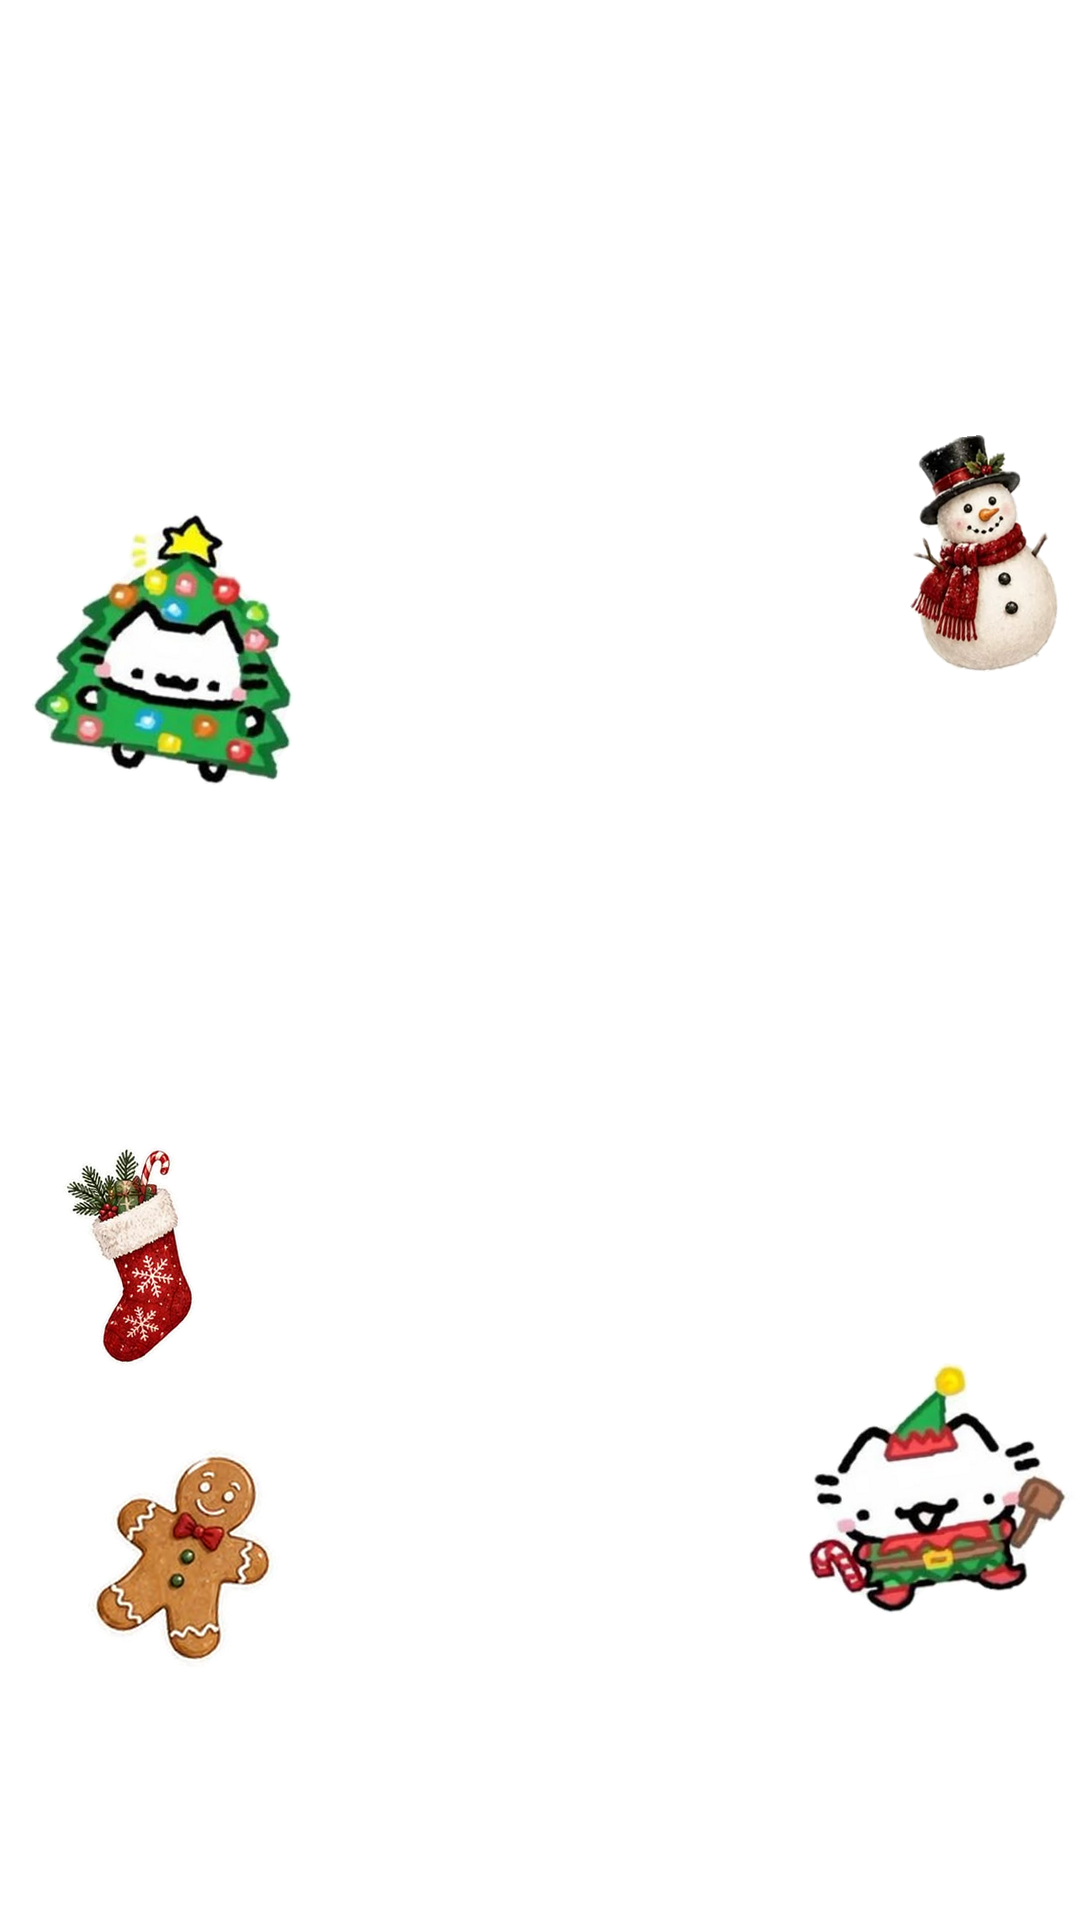
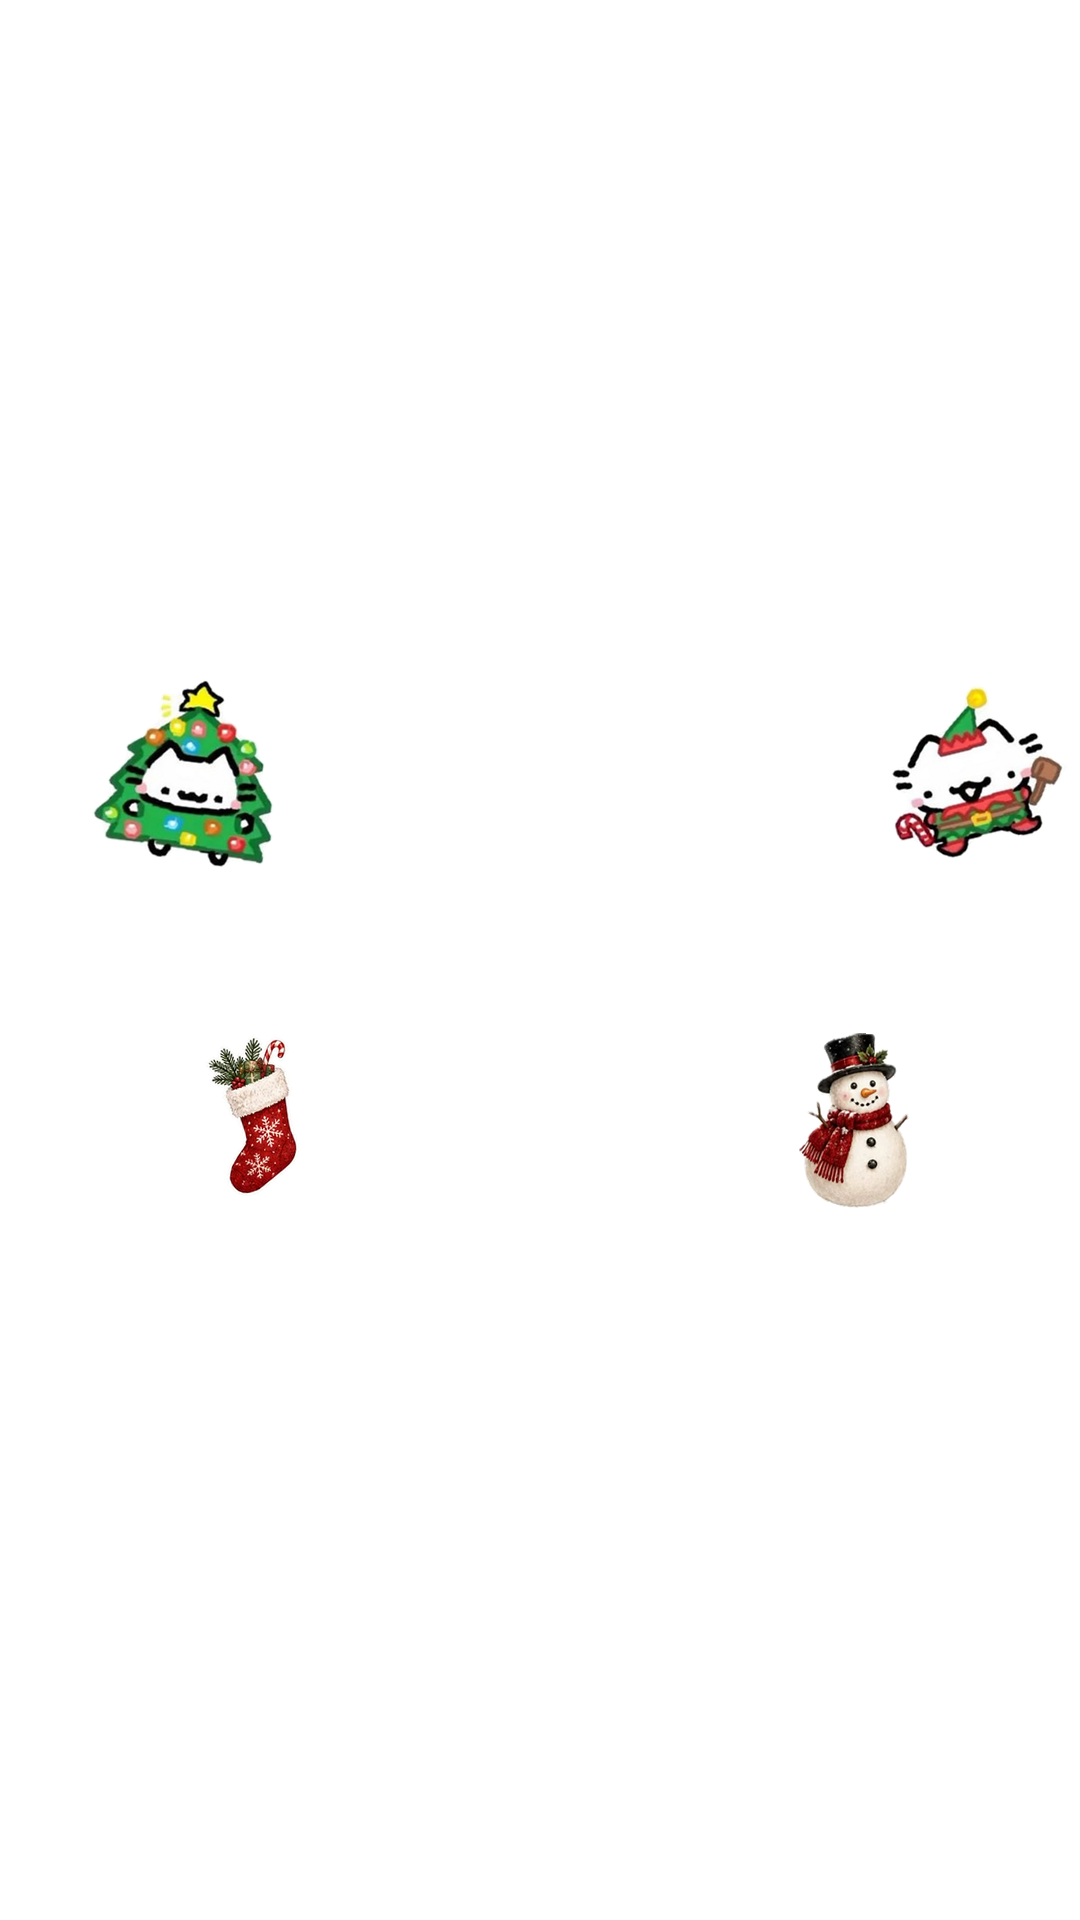
Introdução: 4 stickers menores perto do texto, movimento só de rotação
Claude-Session: https://claude.ai/code/session_01EDeurVhqsz6meJn35JURnX

diff --git a/scripts/stickers_intro.py b/scripts/stickers_intro.py
@@ -1,8 +1,8 @@
 """Efeito de introdução: stickers parados que mexem de leve a cada meio segundo (stop-motion).
 
 Pedido da Fran (03/11/2026): os stickers NÃO trocam. Os mesmos ficam na tela o tempo todo
-da introdução e, a cada passo (0,5 s), giram um pouco, deslocam alguns pixels e mudam
-levemente de tamanho, como um adesivo animado quadro a quadro.
+da introdução e, a cada passo (0,5 s), só mudam um pouco o ângulo (rotação), como um adesivo
+animado quadro a quadro. Posição e tamanho ficam fixos.
 
 Uso: python3 scripts/stickers_intro.py projetos/<nome> [duracao_s] [passo_s]
 Lê <projeto>/layout_intro.json:
@@ -20,7 +20,7 @@ import sys
 
 from PIL import Image
 
-MEXE = {"desloca_px": 7, "giro_graus": 4, "escala": 0.03}  # "leve movimento"
+MEXE = {"desloca_px": 0, "giro_graus": 6, "escala": 0.0}  # Fran (03/11): só gira; não anda em x/y nem muda de tamanho
 
 
 def main(projeto, duracao=3.0, passo=0.5, semente=7):

diff --git a/CLAUDE.md b/CLAUDE.md
@@ -37,7 +37,7 @@ Toda correção nova que a Fran fizer entra aqui na mesma hora, com data, para n
 - **Sticker é sticker "aesthetic", não emoji.** Nada de Fluent Emoji, Twemoji ou parecidos. O estilo é de Pinterest/Instagram: laço coquette, enfeite vintage, azevinho em aquarela, estrela com glitter.
 - **Nada de editar, baixar asset ou montar kit antes de a Fran aprovar.** Primeiro mostrar as opções (folha com as imagens), esperar o "pode" e só depois seguir. Quando ela diz "não edita ainda", só preparar (baixar o bruto, transcrever) e perguntar.
 - **Vídeos de Natal e achadinhos podem ter cor.** O preto e branco vale para os Reels de provador. Para o CapCut (Mac), entregar um kit: vídeo cortado, legenda .srt, PNGs e roteiro de tempos.
-- **Introdução (corrigido em 03/11):** os stickers **não trocam**. Os mesmos ficam parados na tela e têm um **leve movimento a cada 0,5 s** (giram, deslocam e mudam de tamanho um pouquinho, estilo stop-motion). Gerados por `scripts/stickers_intro.py` a partir do `layout_intro.json` do projeto, longe do rosto e da peça.
+- **Introdução (corrigido em 03/11):** os stickers **não trocam**. Os mesmos ficam parados na tela e têm um **leve movimento a cada 0,5 s só na rotação** (mudam o ângulo; não andam em x/y nem mudam de tamanho). **Pequenos** (cerca de 160 a 185 px) e **perto do texto do gancho**. Gerados por `scripts/stickers_intro.py` a partir do `layout_intro.json` do projeto, longe do rosto e da peça.
 - **Stickers aprovados ficam em `projetos/<nome>/stickers/`** (fora do git, porque são de terceiros). Origem: pins que a Fran manda. Recortar a cartela em PNGs, montar a folha numerada e esperar ela escolher os códigos.
 - **Gancho dos vídeos de Natal (03/11):** texto **no meio da tela**, quebrado em linhas ("Achadinhos" ENTER "de Natal"), em **cores pastel de Natal** (vermelho/rosa pastel #EE8E9C e verde pastel #7FC497), Playfair Display em negrito, com contorno branco fino e sombra leve para dar leitura.
 - **Abertura:** a Fran grava a apresentação ("Achadinhos de Natal da Farm…") num arquivo separado e menor. **Antes de propor a abertura, olhar TODOS os vídeos da pasta do Drive**, não só o mais recente.
